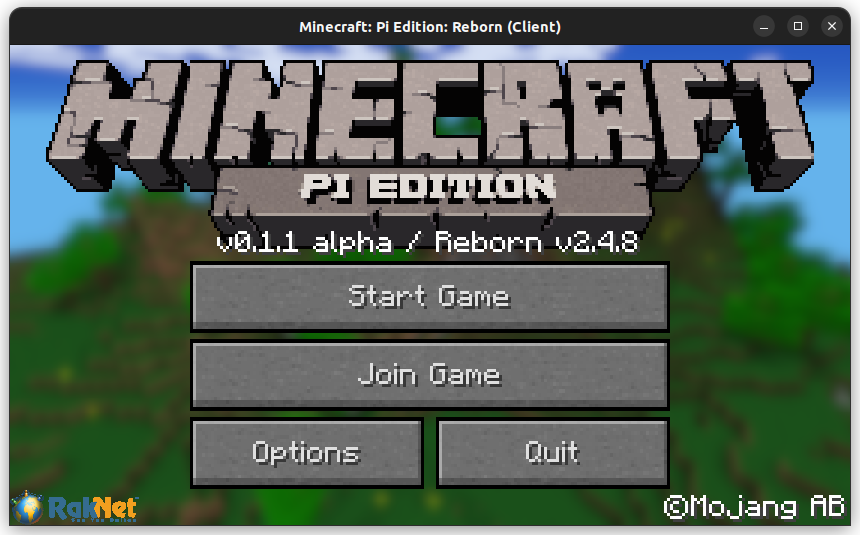
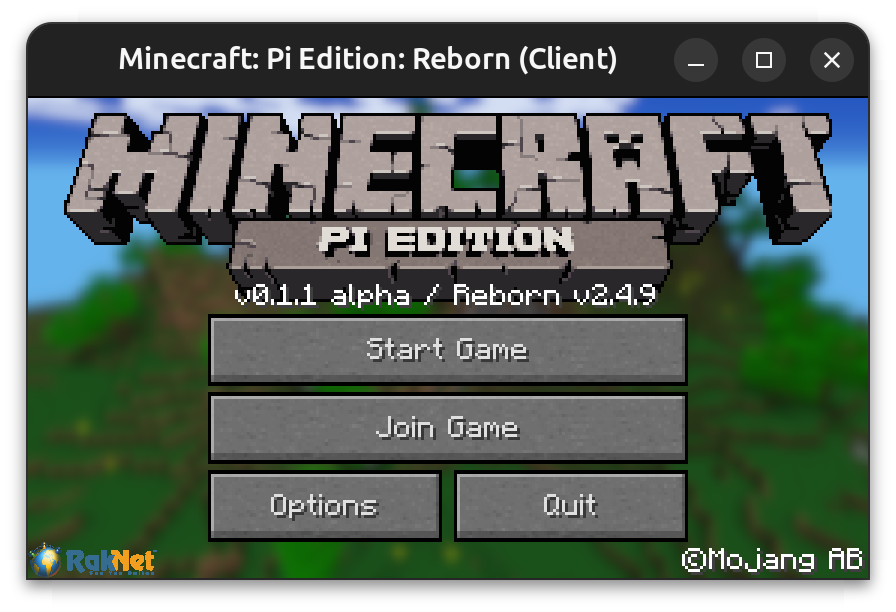
2.4.9

diff --git a/mods/src/misc/misc.c b/mods/src/misc/misc.c
@@ -390,6 +390,31 @@ static void RandomLevelSource_buildSurface_injection(unsigned char *random_level
     (*LargeCaveFeature_apply)(cave_feature, random_level_source, level, chunk_x, chunk_y, chunk_data, 0);
 }
 
+// No Block Tinting
+static int32_t Tile_getColor_injection() {
+    return 0xffffff;
+}
+
+// Disable Hostile AI In Creative Mode
+static unsigned char *PathfinderMob_findAttackTarget_injection(unsigned char *mob) {
+    // Call Original Method
+    unsigned char *mob_vtable = *(unsigned char **) mob;
+    PathfinderMob_findAttackTarget_t PathfinderMob_findAttackTarget = *(PathfinderMob_findAttackTarget_t *) (mob_vtable + PathfinderMob_findAttackTarget_vtable_offset);
+    unsigned char *target = (*PathfinderMob_findAttackTarget)(mob);
+
+    // Check If Creative Mode
+    if (target != NULL) {
+        unsigned char *inventory = *(unsigned char **) (target + Player_inventory_property_offset);
+        bool is_creative = *(bool *) (inventory + FillingContainer_is_creative_property_offset);
+        if (is_creative) {
+            target = NULL;
+        }
+    }
+
+    // Return
+    return target;
+}
+
 // Init
 static void nop() {
 }
@@ -504,6 +529,32 @@ void init_misc() {
     // Generate Caves
     if (feature_has("Generate Caves", server_auto)) {
         overwrite_calls((void *) RandomLevelSource_buildSurface, (void *) RandomLevelSource_buildSurface_injection);
+    }
+
+    // Disable Block Tinting
+    if (feature_has("Disable Block Tinting", server_disabled)) {
+        patch_address((void *) GrassTile_getColor_vtable_addr, (void *) Tile_getColor_injection);
+        patch_address((void *) TallGrass_getColor_vtable_addr, (void *) Tile_getColor_injection);
+        patch_address((void *) StemTile_getColor_vtable_addr, (void *) Tile_getColor_injection);
+        patch_address((void *) LeafTile_getColor_vtable_addr, (void *) Tile_getColor_injection);
+        overwrite((void *) LiquidTile_getColor, (void *) Tile_getColor_injection);
+    }
+
+    // Custom GUI Scale
+    const char *gui_scale_str = getenv("MCPI_GUI_SCALE");
+    if (gui_scale_str != NULL) {
+        unsigned char nop_patch[4] = {0x00, 0xf0, 0x20, 0xe3}; // "nop"
+        patch((void *) 0x173e8, nop_patch);
+        patch((void *) 0x173f0, nop_patch);
+        float gui_scale = strtof(gui_scale_str, NULL);
+        uint32_t gui_scale_raw;
+        memcpy(&gui_scale_raw, &gui_scale, sizeof (gui_scale_raw));
+        patch_address((void *) 0x17520, (void *) gui_scale_raw);
+    }
+
+    // Disable Hostile AI In Creative Mode
+    if (feature_has("Disable Hostile AI In Creative Mode", server_enabled)) {
+        overwrite_call((void *) 0x83b8c, (void *) PathfinderMob_findAttackTarget_injection);
     }
 
     // Init C++ And Logging

diff --git a/symbols/include/symbols/minecraft.h b/symbols/include/symbols/minecraft.h
@@ -144,6 +144,18 @@ static void *GrassTile_getColor_vtable_addr = (void *) 0x111660;
 static Tile_getColor_t TallGrass_getColor = (Tile_getColor_t) 0xc25fc;
 static void *TallGrass_getColor_vtable_addr = (void *) 0x1121f0;
 
+// StemTile
+
+static void *StemTile_getColor_vtable_addr = (void *) 0x111088;
+
+// LeafTile
+
+static void *LeafTile_getColor_vtable_addr = (void *) 0x112980;
+
+// LiquidTile
+
+static Tile_getColor_t LiquidTile_getColor = (Tile_getColor_t) 0xc8774;
+
 // TileRenderer
 
 typedef void (*TileRenderer_tesselateBlockInWorld_t)(unsigned char *tile_renderer, unsigned char *tile, int32_t x, int32_t y, int32_t z);
@@ -432,6 +444,11 @@ static uint32_t Mob_die_vtable_offset = 0x130;
 
 static uint32_t Mob_health_property_offset = 0xec; // int32_t
 
+// PathfinderMob
+
+typedef unsigned char *(*PathfinderMob_findAttackTarget_t)(unsigned char *mob);
+static uint32_t PathfinderMob_findAttackTarget_vtable_offset = 0x204;
+
 // Player
 
 typedef int (*Player_isUsingItem_t)(unsigned char *player);
@@ -690,6 +707,7 @@ static FillingContainer_compressLinkedSlotList_t FillingContainer_compressLinked
 
 static uint32_t FillingContainer_linked_slots_property_offset = 0xc; // int32_t[]
 static uint32_t FillingContainer_linked_slots_length_property_offset = 0x14; // int32_t
+static uint32_t FillingContainer_is_creative_property_offset = 0x24; // bool
 
 // RakNet::RakString
 

diff --git a/libreborn/src/util/util.c b/libreborn/src/util/util.c
@@ -2,6 +2,7 @@
 #include <sys/file.h>
 
 #include <libreborn/util.h>
+#include <libreborn/config.h>
 
 // Safe Version Of pipe()
 void safe_pipe2(int pipefd[2], int flags) {
@@ -42,4 +43,23 @@ void unlock_file(const char *file, int fd) {
         ERR("Unable To Unlock File: %s: %s", file, strerror(errno));
     }
     close(fd);
+}
+
+// Access Configuration At Runtime
+const char *reborn_get_version() {
+    return MCPI_VERSION;
+}
+int reborn_is_headless() {
+#ifdef MCPI_HEADLESS_MODE
+    return 1;
+#else
+    return 0;
+#endif
+}
+int reborn_is_server() {
+#ifdef MCPI_SERVER_MODE
+    return 1;
+#else
+    return 0;
+#endif
 }

diff --git a/mods/src/version/version.cpp b/mods/src/version/version.cpp
@@ -9,7 +9,7 @@ char *version_get() {
     static char *version = NULL;
     // Load
     if (version == NULL) {
-        safe_asprintf(&version, "%s / Reborn v" MCPI_VERSION, *minecraft_pi_version);
+        safe_asprintf(&version, "%s / Reborn v%s", *minecraft_pi_version, reborn_get_version());
     }
     // Return
     return version;

diff --git a/libreborn/include/libreborn/util.h b/libreborn/include/libreborn/util.h
@@ -45,6 +45,11 @@ int is_progress_difference_significant(int32_t new_val, int32_t old_val);
 int lock_file(const char *file);
 void unlock_file(const char *file, int fd);
 
+// Access Configuration At Runtime
+const char *reborn_get_version();
+int reborn_is_headless();
+int reborn_is_server();
+
 #ifdef __cplusplus
 }
 #endif

diff --git a/docs/CHANGELOG.md b/docs/CHANGELOG.md
@@ -1,5 +1,11 @@
 # Changelog
 
+**2.4.9**
+* Allow Overriding GUI Scale With ``MCPI_GUI_SCALE`` Environmental Variable
+* Add ``Disable Block Tinting`` Feature Flag (Disabled By Default)
+* Add ``Disable Hostile AI In Creative Mode`` Feature Flag (Enabled By Default)
+* Allow Accessing Configuration At Runtime (Useful For Mods That Need To Support Multiple Versions)
+
 **2.4.8**
 * Fix Bug In ``extract_from_bl_instruction``
 * Update LIEF And GLFW
